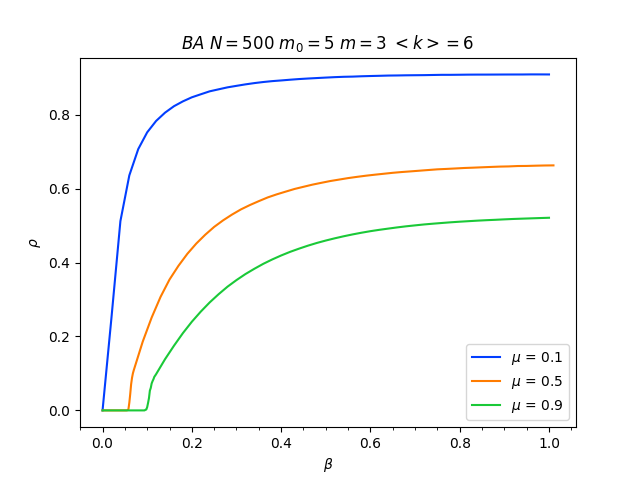
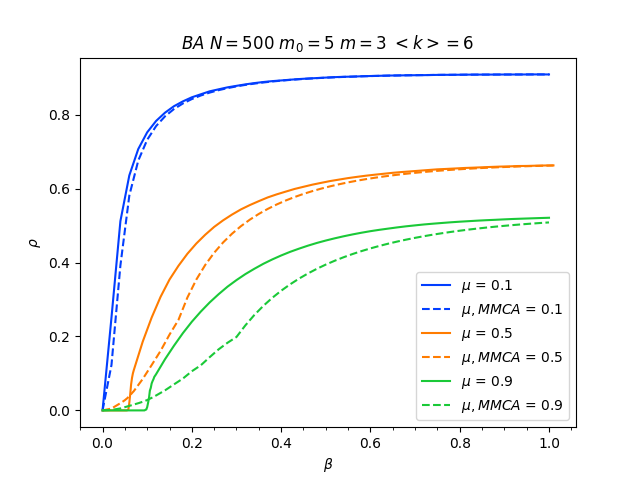
Implement mmcaRho computation

diff --git a/A4/EpidemicSpreading/mmca_rho.py b/A4/EpidemicSpreading/mmca_rho.py
@@ -6,20 +6,35 @@ networks_path = os.path.join("A4-networks")
 results_path = os.path.join("output", "results")
 
 
+"""
 def mmca(adj_matrix, p0, beta, mu, eps, t_max, t_trans):
     n_nodes = adj_matrix.shape[0]
     rho = np.empty(t_max)
     eps_arr = np.full(n_nodes, eps)
+    p = np.full(n_nodes, p0)
     for i in range(t_max):
         print(f'\rt={i}/{t_max}', end='')
         converged = False
-        p = np.full(n_nodes, p0)
         while not converged:
             q = np.array([np.prod(1 - beta * adj_matrix[i] * p) for i in range(n_nodes)])
             old_p = p
             p = (1-q) * (1-p) + (1-mu)*p
             converged = sum(abs(p-old_p) > eps_arr) == 0
-        rho[i] = (1./n_nodes) * sum(p)
+
+        rho[i] = np.mean(p)
+    return np.mean(rho[t_trans:])
+"""
+
+
+def mmca(adj_matrix, p0, beta, mu, t_max, t_trans):
+    print(f'\rbeta={beta}', end='')
+    n_nodes = adj_matrix.shape[0]
+    rho = np.empty(t_max)
+    p = np.full(n_nodes, p0)
+    for i in range(t_max):
+        q = np.prod(1 - beta * adj_matrix * p, axis=0)
+        p = (1-q) * (1-p) + (1-mu)*p
+        rho[i] = np.mean(p)
     return np.mean(rho[t_trans:])
 
 
@@ -33,13 +48,13 @@ for root, dirs, files in os.walk(networks_path):
             net_dir = os.path.join(results_path, net_name)
             for subdir in os.listdir(net_dir):
                 mu = float(subdir.split("-")[-1])
-                print(mu)
+                print(f'\r mu = {mu}')
                 beta = np.loadtxt(os.path.join(net_dir, subdir, "beta.txt"))
                 n_beta = beta.shape[0]
-                rho = np.zeros(n_beta)
+                rho = np.empty(n_beta)
                 for i in range(n_beta):
-                    rho[i] = mmca(adj_matrix, 0.2, beta[i], mu, 0.005, 1000, 900)
-                np.savetxt(os.path.join(net_dir, "mmcaRho.txt"), rho)
+                    rho[i] = mmca(adj_matrix, 0.2, beta[i], mu, 1000, 900)
+                np.savetxt(os.path.join(net_dir, subdir, "mmcaRho.txt"), rho)
 
 
 

diff --git a/A4/EpidemicSpreading/plot_results.py b/A4/EpidemicSpreading/plot_results.py
@@ -55,10 +55,9 @@ for net in os.listdir(results_path):
 
         ax.plot(beta, avgRho, label=f'$\\mu$ = {mu}', color=COLORS[i])
 
-        mmcaRho_exists = os.path.exists(os.path.join(net_path, folder, "mmcaRho.txt"))
-        if mmcaRho_exists:
+        if os.path.exists(os.path.join(net_path, folder, "mmcaRho.txt")):
             mmcaRho = np.loadtxt(os.path.join(net_path, folder, "mmcaRho.txt"))
-            ax.plot(beta, mmcaRho, label=f'$\\mu, MMCA$ = {mu}', color=COLORS[i])
+            ax.plot(beta, mmcaRho, label=f'$\\mu, MMCA$ = {mu}', color=COLORS[i], linestyle='--')
 
     set_plot_title(net.split("-"), ax)
 
